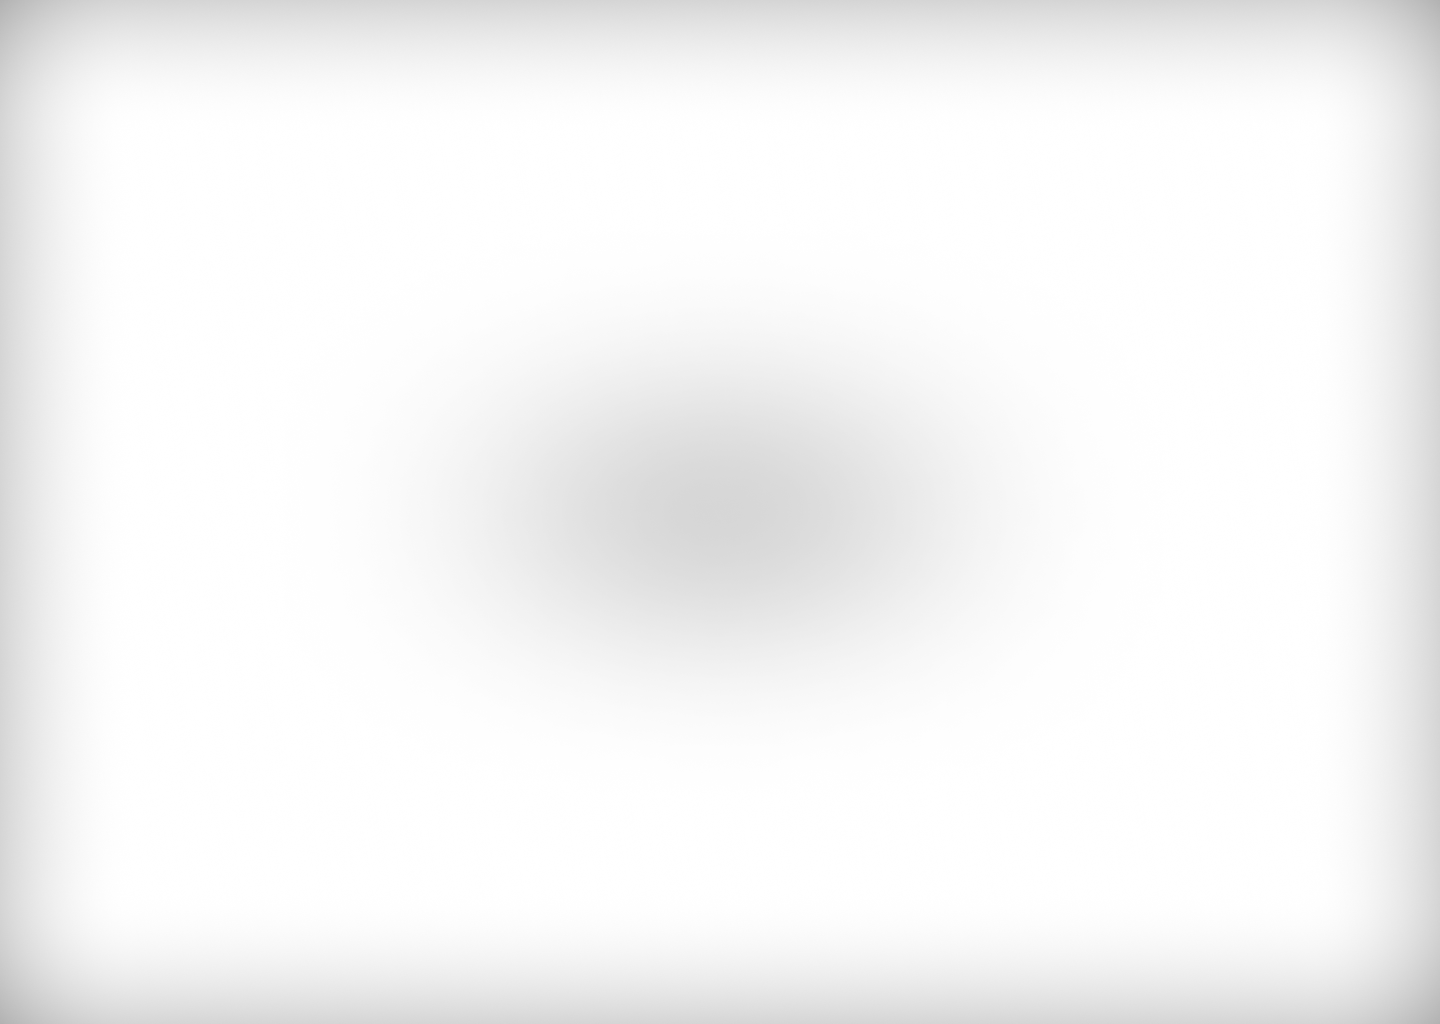
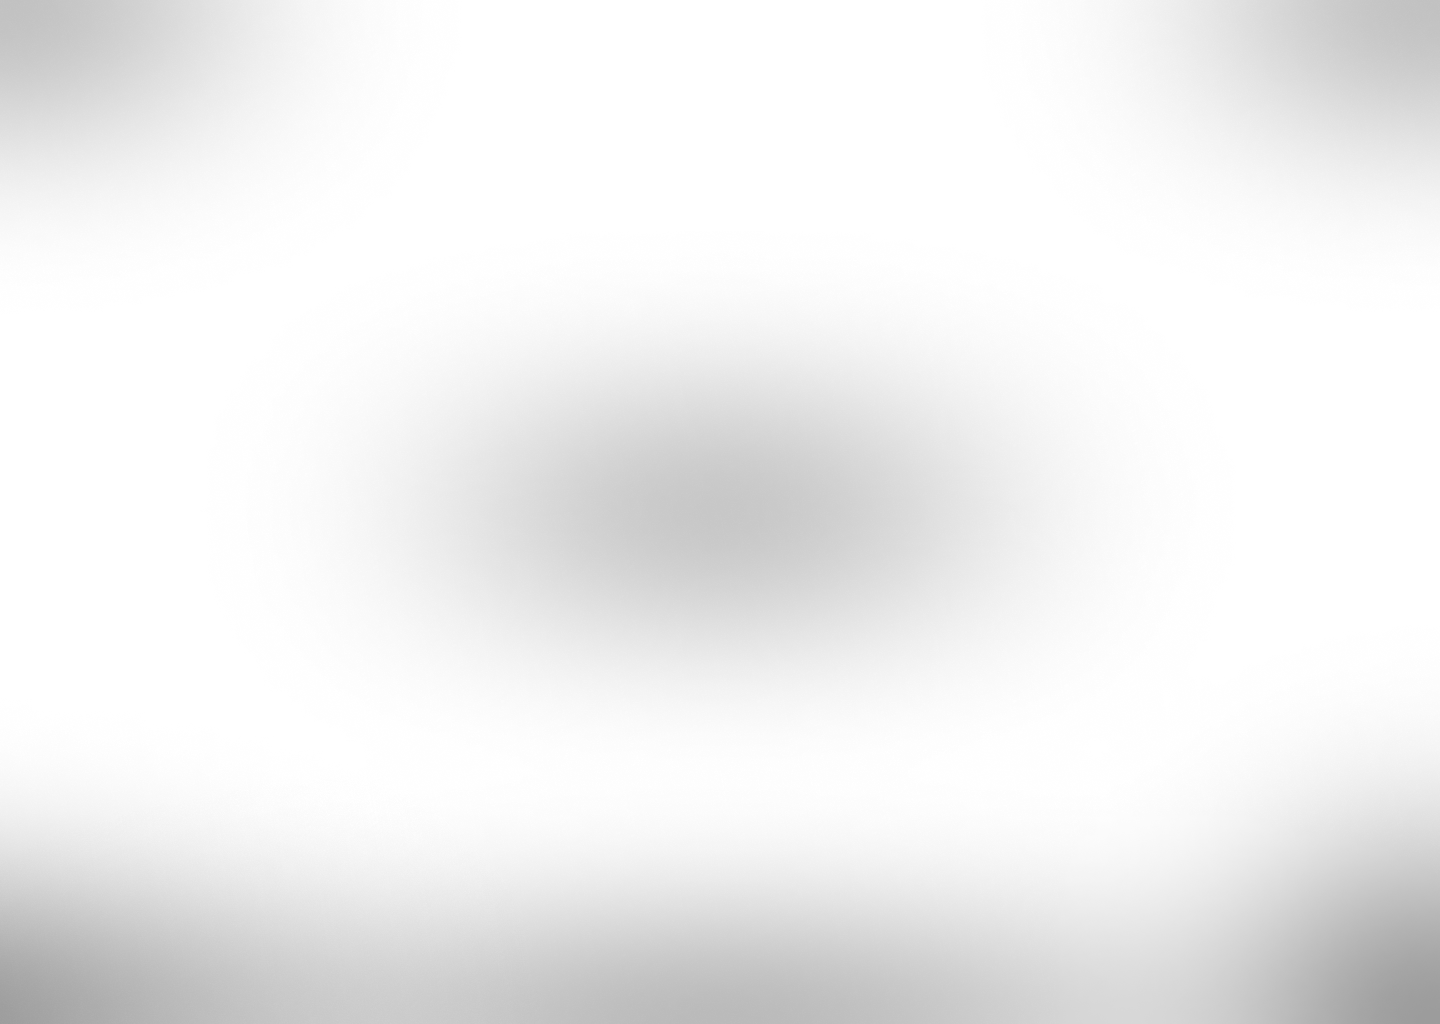
update: background component

diff --git a/src/app/features/background/background.svelte b/src/app/features/background/background.svelte
@@ -37,7 +37,7 @@
       >
     {/each}
   {/if}
-  <img src="../../bg-overlay.png" alt="" class="bg-overlay" />
+  <img src="../../bg-overlay.png" alt="" class="overlay vignette" />
 </div>
 
 <style>
@@ -47,15 +47,19 @@
     background: var(--backdrop-color);
     z-index: 0;
   }
-  .bg-overlay {
+  .overlay {
     position: absolute;
     inset: 0;
     width: 100%;
     height: 100%;
-    object-fit: fill;
     mix-blend-mode: multiply;
     z-index: 2;
     transition: opacity .5s;
+  }
+  .overlay.vignette {
+    --strength: 1;
+    opacity: var(--strength);
+    object-fit: fill;
   }
   img {
     position: absolute;
